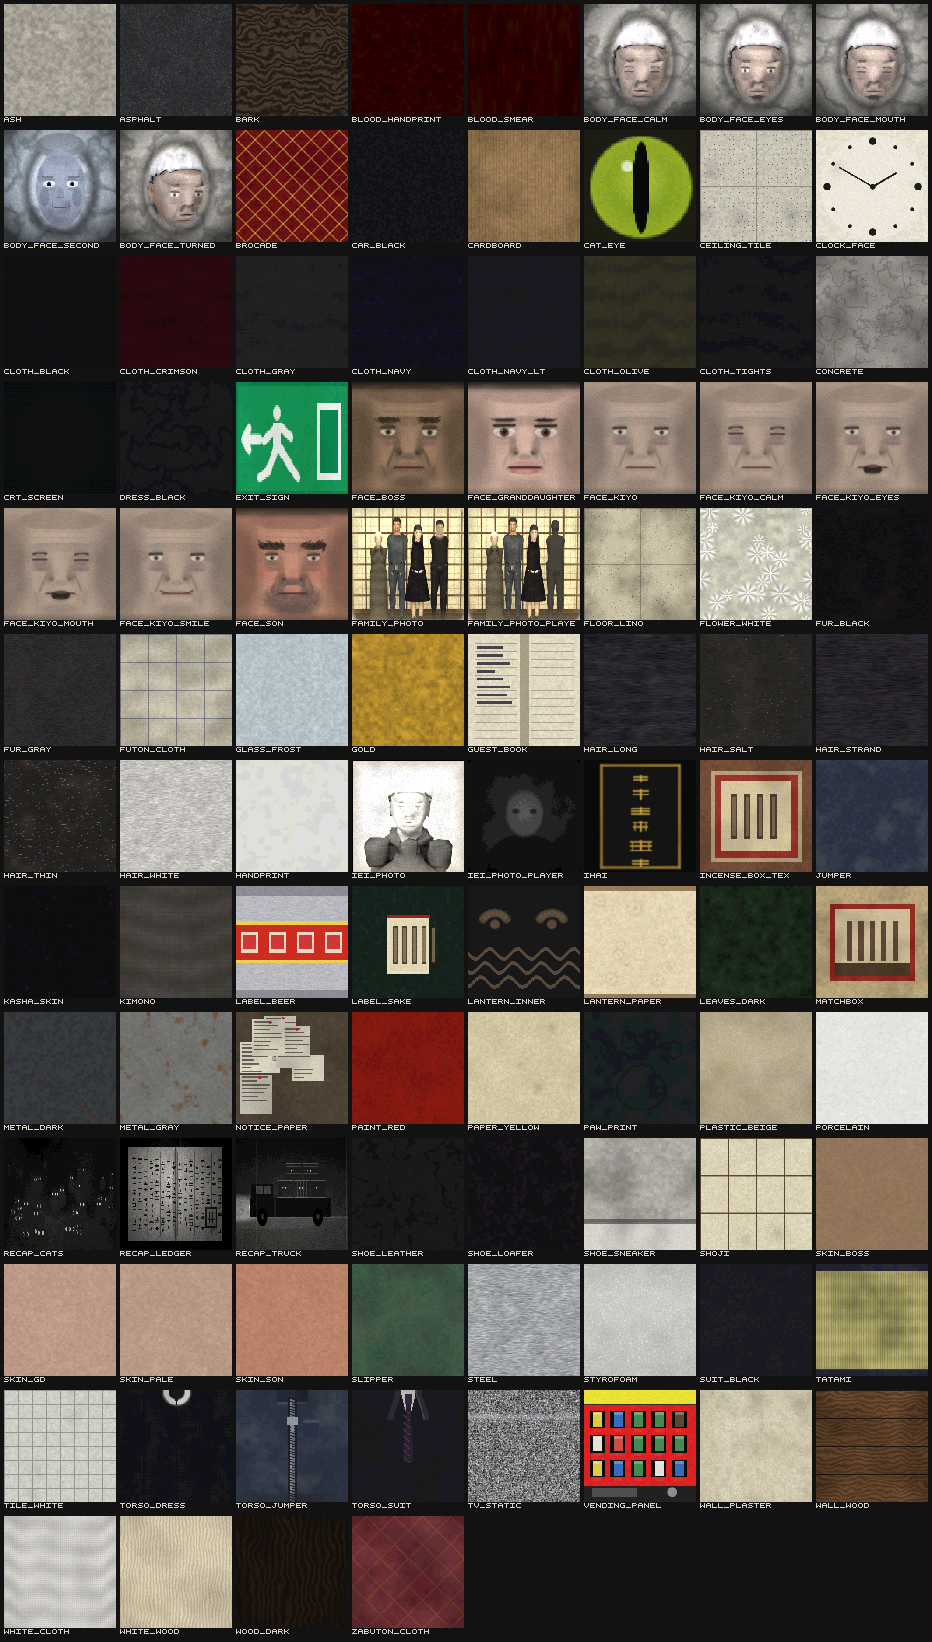
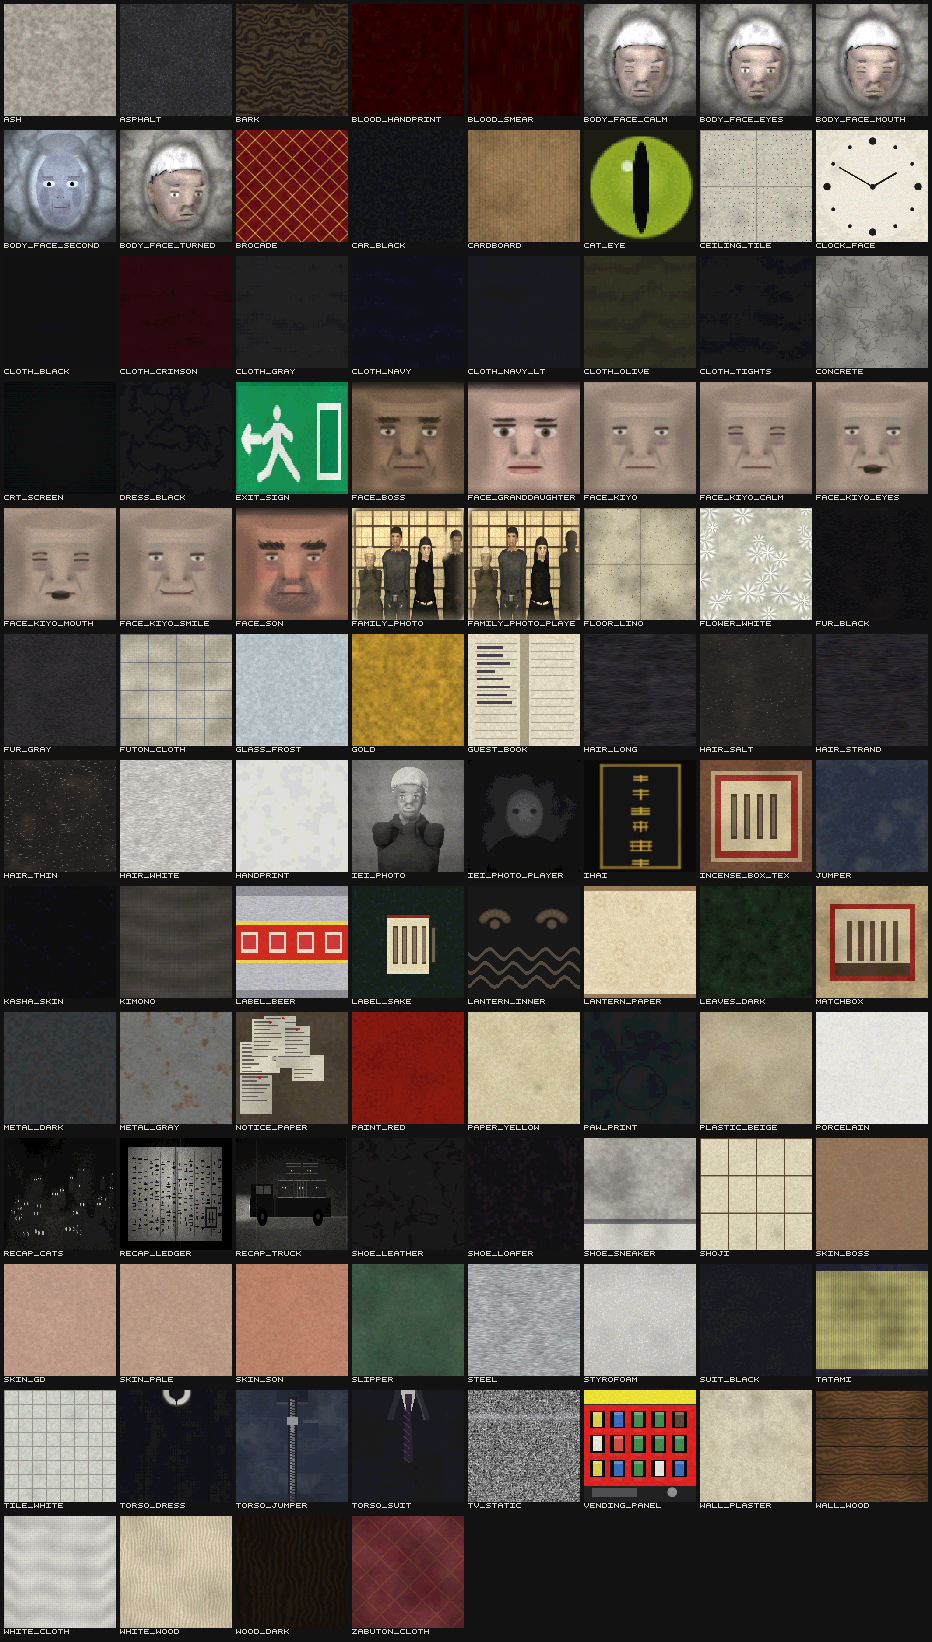
遺影の露出と家族写真のフレーミングを直す

Changed region(s): [[0.3734, 0.3106, 0.6223, 0.3727], [0.3734, 0.4659, 0.4979, 0.528]]

diff --git a/tools/blender/render_photos.py b/tools/blender/render_photos.py
@@ -170,7 +170,7 @@ def blacken(objs, col=(0.020, 0.020, 0.024)):
 def veranda():
     wood = material("PhWood", "wood_dark", color=(0.34, 0.24, 0.16), rough=0.62)
     dark = material("PhBeam", "wall_wood", color=(0.16, 0.12, 0.09), rough=0.8)
-    paper = material("PhShoji", "shoji", color=(0.56, 0.54, 0.48), rough=0.95)
+    paper = material("PhShoji", "shoji", color=(0.38, 0.37, 0.33), rough=0.95)
     grass = material("PhGarden", "leaves_dark", color=(0.20, 0.24, 0.14), rough=0.95)
 
     b = Builder("set")
@@ -199,19 +199,20 @@ def veranda():
 def daylight():
     world_color((0.52, 0.58, 0.66), 0.55)
     add_area("key", (0.9, -3.2, 2.4), (math.radians(60), 0, math.radians(12)),
-             5.0, 300.0, (1.0, 0.96, 0.88))
+             5.0, 210.0, (1.0, 0.96, 0.88))
     add_area("fill", (-2.4, -2.4, 1.7), (math.radians(78), 0, math.radians(-40)),
              4.0, 95.0, (0.82, 0.88, 1.0))
     add_area("back", (0.0, 2.6, 2.1), (math.radians(-64), 0, 0),
              4.0, 12.0, (1.0, 0.94, 0.86))
     add_area("floor", (0.0, -1.2, 0.9), (math.radians(96), 0, 0),
-             3.0, 22.0, (1.0, 0.92, 0.80))
+             3.0, 14.0, (1.0, 0.92, 0.80))
 
 
 # ---------------------------------------------------------------- 写真の劣化
 
 def degrade_photo(img, seed, out_w, out_h, fade=0.34, warm=True,
-                  grain=0.10, mono=False, corner=0.035, bleed=2):
+                  grain=0.10, mono=False, corner=0.035, bleed=2,
+                  soft_edge=0.0):
     """レンダリングを古い写真にする。退色・粒子・角の丸み・にじみ。"""
     H0, W0 = img.shape[0], img.shape[1]
     img = blur(img, bleed)
@@ -221,6 +222,11 @@ def degrade_photo(img, seed, out_w, out_h, fade=0.34, warm=True,
     H, W = img.shape[0], img.shape[1]
     gx, gy = np.meshgrid(np.arange(H), np.arange(W), indexing="ij")
 
+    if soft_edge > 0:                       # ピントは中央、端はわずかに甘く
+        rr = np.sqrt(((gx - H * 0.5) / (H * 0.62)) ** 2 +
+                     ((gy - W * 0.5) / (W * 0.62)) ** 2)
+        img = mix(img, blur(img, 2), np.clip((rr - 0.72) * 1.9, 0, 1) * soft_edge)
+
     lum = img.mean(axis=2, keepdims=True)
     if mono:
         img = np.repeat(lum, 3, axis=2)
@@ -228,7 +234,7 @@ def degrade_photo(img, seed, out_w, out_h, fade=0.34, warm=True,
     else:
         img = mix(img, np.repeat(lum, 3, axis=2), fade)
         if warm:
-            img = img * np.array([1.07, 1.00, 0.84])
+            img = img * np.array([1.10, 1.00, 0.79])   # セピア寄り
     con = 1.16 if mono else 1.02
     img = np.clip((img - 0.5) * con + (0.49 if mono else 0.50), 0, 1)
 
@@ -296,29 +302,31 @@ def head_screen_pos(scene, cam, world_pos):
 def make_family(variant, out_name):
     build_family(variant)
     W, H = 1024, 768
-    sc = scene_setup(W, H, exposure=0.10, samples=48)
+    sc = scene_setup(W, H, exposure=-0.20, samples=48)
     print("  objects in scene:", len(bpy.context.scene.objects))
-    cam = add_camera((0.06, -3.70, 1.22), (0.06, 0.42, 0.97), lens=60.0,
-                     dof_at=(0.06, 0.42, 1.12), fstop=6.3)
+    cam = add_camera((0.00, -2.52, 1.40), (0.00, 0.42, 1.30), lens=60.0,
+                     dof_at=(0.00, 0.42, 1.34), fstop=6.3)
     img = render_np(W, H)
     write_png(os.path.join(PREVIEW_DIR, "_raw_family_%s.png" % variant),
               img * 255.0)
 
     if variant == "smudge":
         # 4 人目の顔だけを擦って潰す
-        hx, hy = head_screen_pos(sc, cam, (0.74, 0.42, 1.51))
+        hx, hy = head_screen_pos(sc, cam, (0.55, 0.42, 1.53))
         cx, cy = hy * H, hx * W
         gx, gy = np.meshgrid(np.arange(H), np.arange(W), indexing="ij")
-        m = np.clip(1.0 - np.sqrt(((gx - cx) / (H * 0.085)) ** 2
-                                  + ((gy - cy) / (W * 0.055)) ** 2), 0, 1)
+        m = np.clip(1.0 - np.sqrt(((gx - cx) / (H * 0.155)) ** 2
+                                  + ((gy - cy) / (W * 0.085)) ** 2), 0, 1)
         m = np.clip(m * 2.0, 0, 1)
-        sm = blur(img.copy(), 14)
+        sm = blur(img.copy(), 18)
         img = mix(img, sm, m)
         scr = white(max(H, W), 9911)[:H, :W]
-        img = mix(img, rgb(H, (0.80, 0.77, 0.72), width=W),
-                  m * (0.34 + scr * 0.42))
+        streak = norm(fbm(max(H, W), 22, 3, 9912))[:H, :W]
+        img = mix(img, rgb(H, (0.88, 0.85, 0.79), width=W),
+                  np.clip(m * 1.25, 0, 1) * (0.52 + scr * 0.30 + streak * 0.22))
 
-    out = degrade_photo(img, 6100 if variant == "smudge" else 6200, 256, 192)
+    out = degrade_photo(img, 6100 if variant == "smudge" else 6200, 256, 192,
+                        fade=0.50, soft_edge=0.55)
     save_tex(out_name, out)
     return out
 
@@ -326,24 +334,28 @@ def make_family(variant, out_name):
 # ---------------------------------------------------------------- 遺影
 
 def make_iei():
+    """遺影。胸から上、正面、わずかに微笑。淡いグレー背景のグレースケール。
+    黒い額と黒リボンは iei_frame.glb 側にあるので、写真には入れない。"""
     reset_scene()
-    world_color((0.10, 0.10, 0.11), 0.30)
-    # 写真館: 斜め上から柔らかい主光 + 背景を分ける弱い逆光
-    add_area("key", (-1.30, -2.10, 2.55), (math.radians(52), 0, math.radians(-28)),
-             2.0, 420.0, (1.0, 0.97, 0.93))
-    add_area("fill", (1.55, -1.80, 1.55), (math.radians(82), 0, math.radians(40)),
-             1.6, 70.0, (0.88, 0.92, 1.0))
-    add_area("rim", (0.85, 1.35, 2.00), (math.radians(-52), 0, math.radians(18)),
-             1.2, 40.0)
-    # 背景の暗い幕
+    world_color((0.14, 0.14, 0.15), 0.25)
+    # 写真館: 斜め上から柔らかい主光。顔の陰影が残るよう控えめにする
+    add_area("key", (-1.20, -2.05, 2.35), (math.radians(54), 0, math.radians(-26)),
+             2.2, 150.0, (1.0, 0.98, 0.95))
+    add_area("fill", (1.50, -1.75, 1.50), (math.radians(82), 0, math.radians(40)),
+             1.8, 26.0, (0.90, 0.93, 1.0))
+    add_area("rim", (0.80, 1.30, 2.05), (math.radians(-52), 0, math.radians(18)),
+             1.2, 14.0)
+    # 背景の幕(中間のグレー。グラデーションは後処理で足す)
     b = Builder("bg")
     b.add(box_mm(-2.4, 2.4, 1.85, 1.90, 0.00, 2.60),
-          material("IeiBg", "wall_plaster", color=(0.085, 0.085, 0.090), rough=0.98), 2.0)
+          material("IeiBg", "wall_plaster", color=(0.60, 0.60, 0.61), rough=0.98),
+          2.0)
+    add_area("bg", (0.0, 0.70, 2.05), (math.radians(-104), 0, 0),
+             2.6, 235.0, (1.0, 1.0, 1.0))
     b.build()
 
     objs, _ = place("npc_kiyo", (0.0, 0.0, 0.0), yaw_deg=180.0,
                     action="idle", frame=5)
-    # 微笑んだ顔に差し替える
     for o in objs:
         if o.type != 'MESH':
             continue
@@ -353,12 +365,31 @@ def make_iei():
     matte(objs)
 
     R = 768
-    scene_setup(R, R, exposure=0.14, samples=64)
-    add_camera((0.015, -1.02, 1.399), (0.0, 0.0, 1.318), lens=76.0,
-               dof_at=(0.0, 0.0, 1.37), fstop=3.6)
+    scene_setup(R, R, exposure=-1.05, samples=64)      # 白飛びしない露出
+    add_camera((0.015, -1.14, 1.372), (0.0, 0.0, 1.258), lens=70.0,
+               dof_at=(0.0, 0.0, 1.37), fstop=4.0)
     img = render_np(R, R)
-    out = degrade_photo(img, 6300, 256, 256, mono=True, grain=0.085,
-                        corner=0.0, bleed=1)
+    write_png(os.path.join(PREVIEW_DIR, "_raw_iei.png"), img * 255.0)
+
+    S = 256
+    img = blur(img, 1).reshape(S, 3, S, 3, 3).mean(axis=(1, 3))
+    lum = img.mean(axis=2)
+    gx, gy = np.meshgrid(np.arange(S), np.arange(S), indexing="ij")
+
+    # 顔の陰影を出す。白飛びさせないよう上を抑える
+    lum = np.clip((lum - 0.42) * 1.30 + 0.53, 0.0, 0.91)
+    # 淡いグラデーション(上が明るく、下と左右がわずかに落ちる)
+    grad = 1.05 - (gx / float(S)) * 0.12 - np.abs(gy - S * 0.5) / S * 0.09
+    lum = np.clip(lum * grad, 0.0, 0.93)
+    img = np.stack([lum, lum * 0.992, lum * 0.966], axis=2)
+
+    # 周辺減光と軽い粒子
+    d = np.sqrt(((gx - S * 0.46) / (S * 0.78)) ** 2 +
+                ((gy - S * 0.50) / (S * 0.80)) ** 2)
+    img = mul_gray(img, np.clip(1.05 - d * 0.42, 0, 1.1))
+    img = mul_gray(img, 0.955 + white(S, 6301) * 0.09)
+    img = mul_gray(img, 0.97 + norm(fbm(S, 8, 3, 6302)) * 0.06)
+    out = finish(img, 6303, noise=0.028, levels=30)
     save_tex("iei_photo", out)
     return out
 
